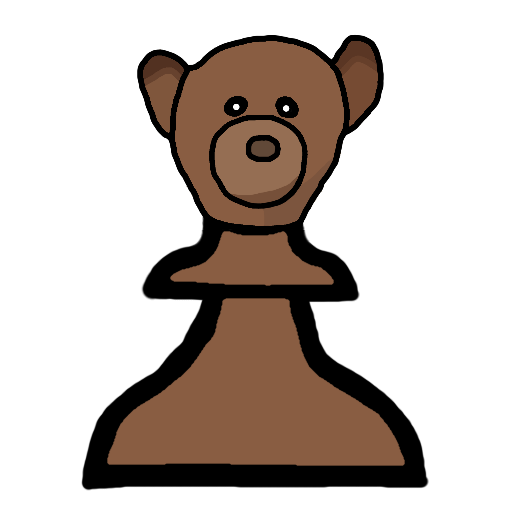
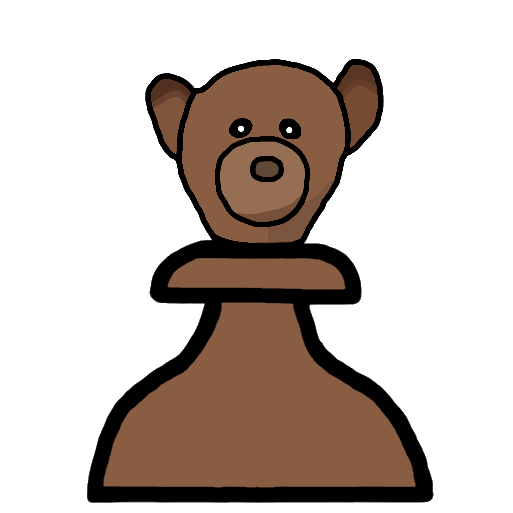
new pieces images

Changed region(s): [[0.25, 0.0625, 0.7812, 0.8125], [0.1562, 0.75, 0.8438, 1.0]]

diff --git a/gui.h b/gui.h
@@ -115,7 +115,7 @@ static float board_padding_y;
 // Taille des pièces
 static float tile_size;
 static float piece_size;
-static float piece_scale = 0.75;
+static float piece_scale = 0.85;
 
 // Taille standard du texte
 static float text_size;
